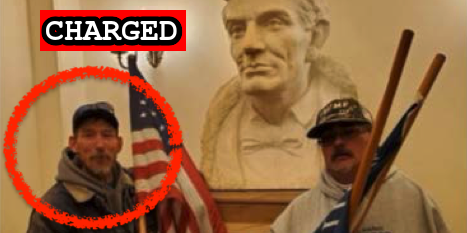
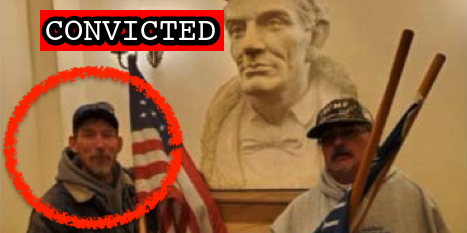
Latest plea deals

Changed region(s): [[0.0899, 0.03, 0.4797, 0.2403]]

diff --git a/docs/_suspects/terry-lindsey.md b/docs/_suspects/terry-lindsey.md
@@ -4,15 +4,16 @@ lastName: Lindsey
 hashtag: TerryLindsey
 aka:
 residence: Ohio
-status: Charged
+status: Convicted
 date: 2021-02-16
 charged: 2021-02-16
 indicted:
-convicted:
+convicted: 2022-04-05
 sentenced:
 dismissed:
 deceased:
-plea_hearing:
+plea_hearing: 2022-04-05
+trial_date:
 sentencing:
 age: 53
 occupation:
@@ -34,10 +35,23 @@ published: true
 caseNumber: 1:21-cr-162
 videos:
 charges:
+  - code: 18 USC § 1752(a)(1)
+    title: Entering a restricted building or grounds
+    url: https://www.law.cornell.edu/uscode/text/18/1752
+    felony: false
+  - code: 18 USC § 5104(e)(2)(D)
+    title: Disorderly Conduct in a Capitol Building
+    url: https://www.law.cornell.edu/uscode/text/40/5104
+    felony: false
+  - code: 18 USC § 5104(e)(2)(G)
+    title: Parading, demonstrating or picketing in a Capitol building
+    url: https://www.law.cornell.edu/uscode/text/40/5104
+    felony: false
 sentence:
 ---
 
 - [News Report](https://www.newsbreak.com/colorado/colorado-springs/news/2166074234842/ohios-terry-lynn-lindsey-yet-to-be-arrested-after-entering-us-capitol-with-colorado-springs-glenn-wes-lee-croy)
-- [Statement of Facts](https://www.justice.gov/usao-dc/case-multi-defendant/file/1371331/download)
+- [Statement of Facts](https://www.justice.gov/usao-dc/case-multi-defendant/file/1490986/download)
 - [DOJ Press Release](https://www.justice.gov/usao-dc/case-multi-defendant/file/1377836/download)
 - [Information](https://www.justice.gov/usao-dc/case-multi-defendant/file/1377836/download)
+- [Plea Agreement](https://www.justice.gov/usao-dc/case-multi-defendant/file/1490981/download)

diff --git a/docs/_suspects/matthew-baggott.md b/docs/_suspects/matthew-baggott.md
@@ -4,15 +4,16 @@ lastName: Baggott
 hashtag: BetaKappaMaga
 aka:
 residence: Tennessee
-status: Charged
+status: Convicted
 date: 2021-05-24
 charged: 2021-05-24
 indicted:
-convicted:
+convicted: 2022-04-05
 sentenced:
 dismissed:
 deceased:
-plea_hearing:
+plea_hearing: 2022-04-05
+trial_date:
 sentencing:
 age:
 occupation:
@@ -34,8 +35,14 @@ published: true
 caseNumber: 1:21-cr-411
 videos:
 charges:
+  - code: 18 USC § 5104(e)(2)(D)
+    title: Disorderly Conduct in a Capitol Building
+    url: https://www.law.cornell.edu/uscode/text/40/5104
+    felony: false
 sentence:
 ---
+
 - [News Report](https://www.wsmv.com/news/two-middle-tennessee-residents-arrested-for-role-in-us-capitol-riot/article_8f4af518-c4c0-11eb-be8e-af86539b82fc.html)
-- [Statement of Facts](https://www.justice.gov/usao-dc/case-multi-defendant/file/1401226/download)
+- [Statement of Facts](https://www.justice.gov/usao-dc/case-multi-defendant/file/1490701/download)
 - [Information](https://www.justice.gov/usao-dc/case-multi-defendant/file/1459396/download)
+- [Plea Agreement](https://www.justice.gov/usao-dc/case-multi-defendant/file/1490696/download)
